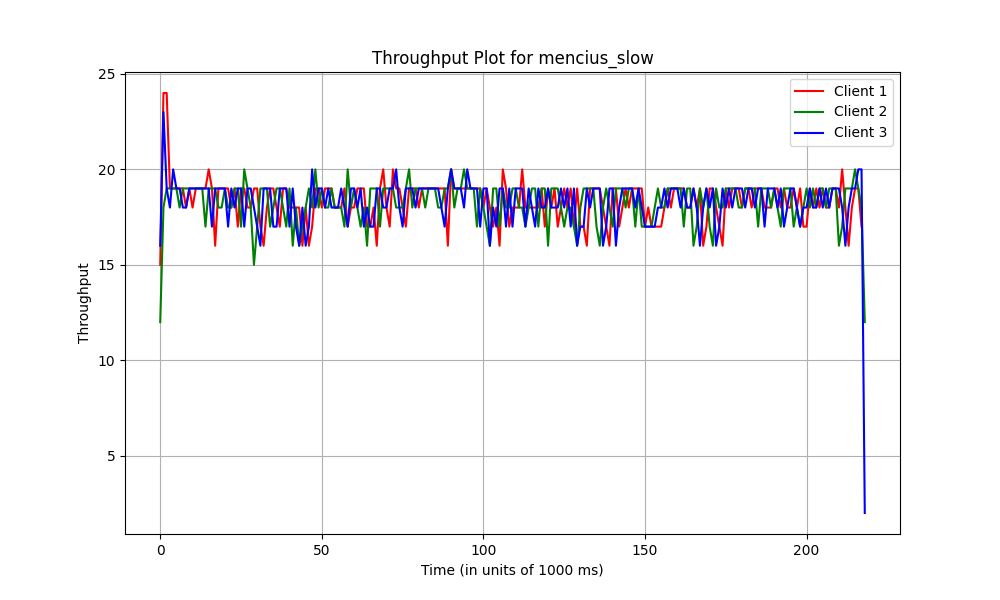
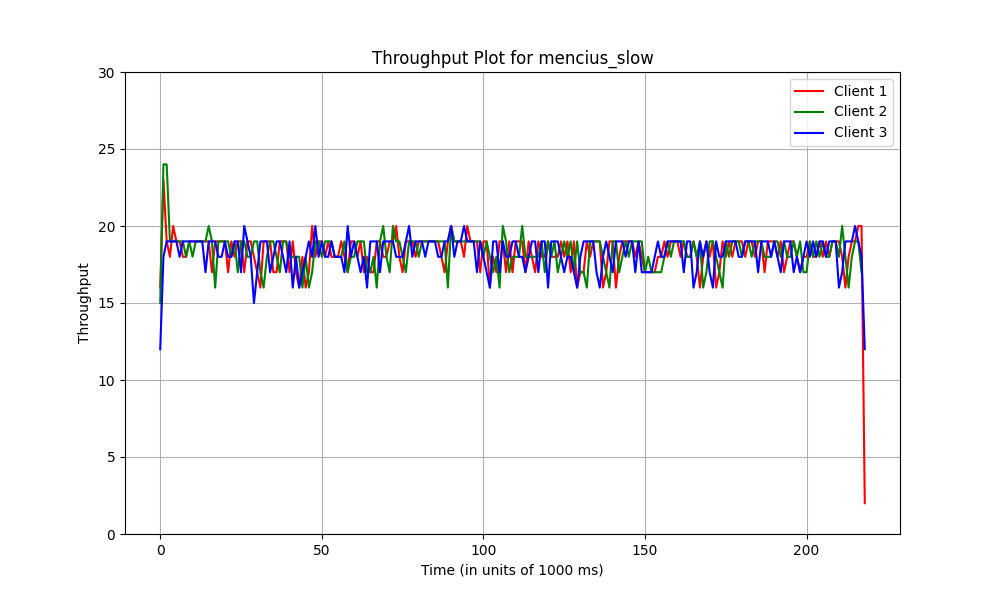
graphs

diff --git a/plotting/main.py b/plotting/main.py
@@ -1,15 +1,27 @@
 import os
 import matplotlib.pyplot as plt
 
+# Latency graph minimum and maximum values, in ms (for y-axis)
+LATENCY_MIN = 20
+LATENCY_MAX = 100
+LATENCY_INCREMENT = 10
+
+# Throughput graph minimum and maximum values, in ms (for y-axis)
+THROUGHPUT_MIN = 0
+THROUGHPUT_MAX = 30
+THROUGHPUT_INCREMENT = 5
+
 # The time, in ms, to check throughput for plotting
 THROUGHPUT_INTERVAL = 1000
 
 # Whether or not we trim, and if so, how much to trim
-TRIM = False
-TRIM_AMOUNT = 250
+LATENCY_TRIM = True
+L_TRIM_AMOUNT = 50
+THROUGHPUT_TRIM = False
+T_TRIM_AMOUNT = 50
 
 # The columns in the data that are floats
-FLOAT_COLS = [0] 
+FLOAT_COLS = [0]
 
 # The file naming format
 def BENCHMARK_FILE_FORMAT(file):
@@ -51,22 +63,22 @@ def main():
         # Plot latency and throughput
         plot_latency(latencies, sys_name)
         plot_throughput(throughputs, sys_name)
-        
+
 
 def fetch_files(root, files):
     txt_files = []
-    
+
     for file in files:
         if BENCHMARK_FILE_FORMAT(file):
             file_path = os.path.join(root, file)
             with open(file_path, 'r') as f:
                 file_content = f.read()
             txt_files.append((file_path, file_content))
-    
+
     return txt_files
 
 
-def tablify(text): 
+def tablify(text):
     return [row.split() for row in text.strip().split('\n')]
 
 
@@ -76,13 +88,13 @@ def clean_data(data):
 
     def cols_to_float(arr, cols):
         return [[float(row[i]) if i in cols else row[i] for i in range(len(row))] for row in arr]
-    
+
     def drop_second_col(arr):
         return [row[0] for row in arr]
-    
+
     def col1_s_to_ms(arr):
         return [x * 1000 for x in arr]
-    
+
     return col1_s_to_ms(drop_second_col(cols_to_float(purge_non_data(data), FLOAT_COLS)))
 
 
@@ -90,7 +102,7 @@ def latency_arr(arr):
     latency = []
     for i in range(1, len(arr)):
         latency.append([i, arr[i] - arr[i-1]])
-    return trim_warmup_cooldown(latency)
+    return latency_trim(latency)
 
 
 def throughput_arr(arr):
@@ -100,54 +112,62 @@ def throughput_arr(arr):
 
     throughput = {}
     for timestamp in adjusted_timestamps:
-        second = timestamp // THROUGHPUT_INTERVAL  
+        second = timestamp // THROUGHPUT_INTERVAL
         if second in throughput:
             throughput[second] += 1
         else:
             throughput[second] = 1
 
-    return trim_warmup_cooldown([[key, value] for key, value in throughput.items()])
+    return throughput_trim([[key, value] for key, value in throughput.items()])
 
 
-def trim_warmup_cooldown(arr):
-    if not TRIM: return arr
-    else: return arr[TRIM_AMOUNT:-TRIM_AMOUNT] if len(arr) > (2 * TRIM_AMOUNT) else []
+def latency_trim(arr):
+    if not LATENCY_TRIM: return arr
+    else: return arr[L_TRIM_AMOUNT:-L_TRIM_AMOUNT] if len(arr) > (2 * L_TRIM_AMOUNT) else []
+
+
+def throughput_trim(arr):
+    if not THROUGHPUT_TRIM: return arr
+    else: return arr[T_TRIM_AMOUNT:-T_TRIM_AMOUNT] if len(arr) > (2 * T_TRIM_AMOUNT) else []
 
 
 def plot_latency(latency, name):
     colors = ['r', 'g', 'b', 'c', 'm', 'y', 'k']
-    
+
     plt.figure(figsize=(10, 6))
-    
+
     for i, data in enumerate(latency):
-        x = [point[0] for point in data] 
+        x = [point[0] for point in data]
         y = [point[1] for point in data]
-        plt.plot(x, y, color=colors[i % len(colors)], label=f'Client {i+1}') 
-    
+        plt.plot(x, y, color=colors[i % len(colors)], label=f'Client {i+1}')
+
     plt.xlabel('Request Number')
     plt.ylabel('Latency')
     plt.title(f'Latency Plot for {name}')
     plt.legend()
     plt.grid(True)
-    plt.yscale('log')
+    plt.ylim(LATENCY_MIN, LATENCY_MAX)
+    plt.yticks(range(LATENCY_MIN, LATENCY_MAX + LATENCY_INCREMENT, LATENCY_INCREMENT))
     plt.savefig(os.path.join(PLOTS_DIR, f'{name}_latency.png'))
 
 
 def plot_throughput(throughput, name):
     colors = ['r', 'g', 'b', 'c', 'm', 'y', 'k']
-    
+
     plt.figure(figsize=(10, 6))
-    
+
     for i, data in enumerate(throughput):
-        x = [point[0] for point in data] 
+        x = [point[0] for point in data]
         y = [point[1] for point in data]
-        plt.plot(x, y, color=colors[i % len(colors)], label=f'Client {i+1}') 
-    
+        plt.plot(x, y, color=colors[i % len(colors)], label=f'Client {i+1}')
+
     plt.xlabel(f'Time (in units of {THROUGHPUT_INTERVAL} ms)')
     plt.ylabel('Throughput')
     plt.title(f'Throughput Plot for {name}')
     plt.legend()
     plt.grid(True)
+    plt.ylim(THROUGHPUT_MIN, THROUGHPUT_MAX)
+    plt.yticks(range(THROUGHPUT_MIN, THROUGHPUT_MAX + THROUGHPUT_INCREMENT, THROUGHPUT_INCREMENT))
     plt.savefig(os.path.join(PLOTS_DIR, f'{name}_throughput.png'))
 
 
